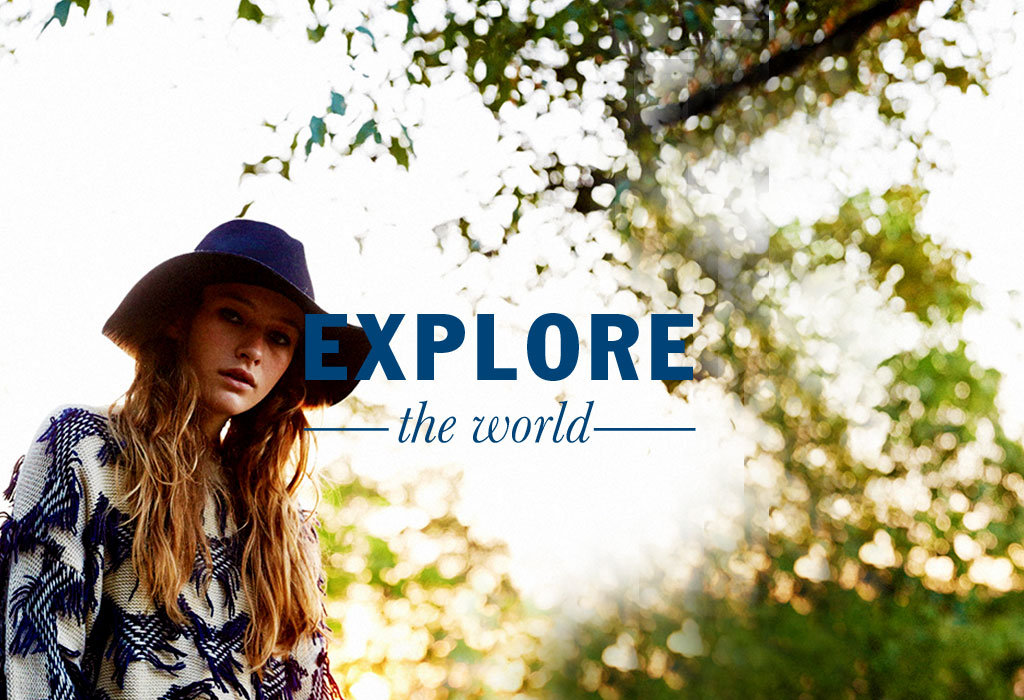
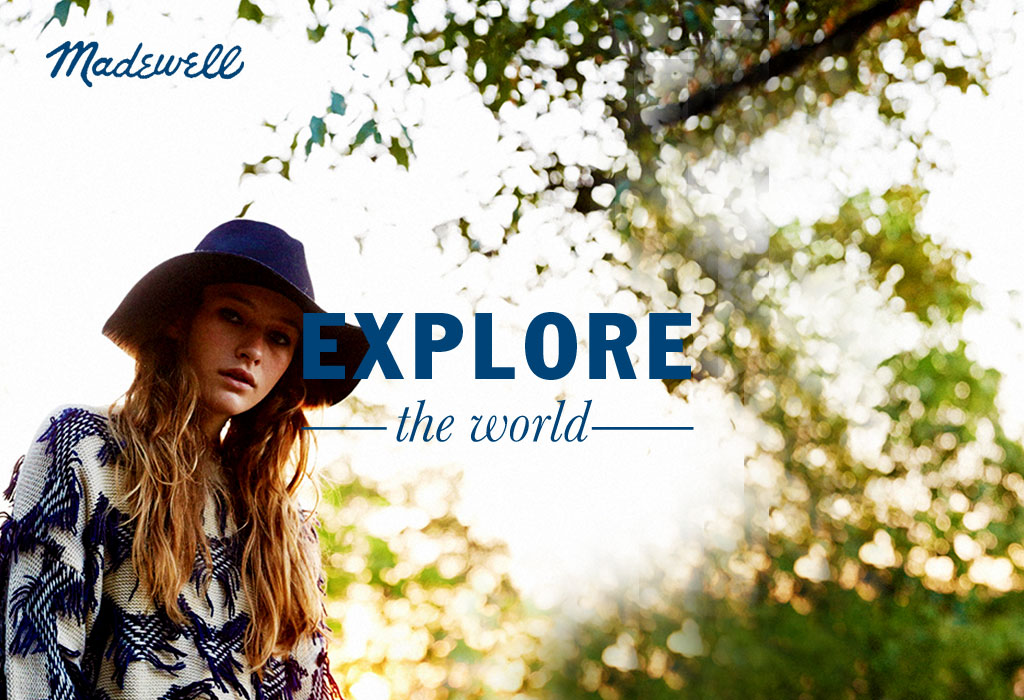
created two more pages for the close up and add to cart page

diff --git a/d2.html b/d2.html
@@ -1,0 +1,175 @@
+<html>
+<head>
+  <title>Madewell</title>
+   <meta http-equiv="content-type" content="text/html; charset=UTF-8">
+    <title>Making it swipeable - Swipeable Side Menu</title>
+    <script type="text/javascript" src="http://code.jquery.com/jquery-1.9.1.js"></script>
+    <script type="text/javascript" src="jquery.touchSwipe.min.js"></script>
+    <link href="stylesheet.css" type="text/css" rel="stylesheet"/>
+
+    <link href='http://fonts.googleapis.com/css?family=Libre+Baskerville' rel='stylesheet' type='text/css'>
+
+    
+     <script type="text/javascript">
+      $(window).load(function(){
+        $("[data-toggle]").click(function() {
+          var toggle_el = $(this).data("toggle");
+          $(toggle_el).toggleClass("open-sidebar");
+        });
+         $(".swipe-area").swipe({
+              swipeStatus:function(event, phase, direction, distance, duration, fingers)
+                  {
+                      if (phase=="move" && direction =="right") {
+                           $(".container").addClass("open-sidebar");
+                           return false;
+                      }
+                      if (phase=="move" && direction =="left") {
+                           $(".container").removeClass("open-sidebar");
+                           return false;
+                      }
+                  }
+          }); 
+      });
+
+
+var images = new Array('images/dresses/close-up/dress2/d2-front.jpg','images/dresses/close-up/dress2/d2-side.jpg', 'images/dresses/close-up/dress2/d2-back.jpg');
+var index = 1;
+
+function rotateImage()
+{
+  $('#d2-front').fadeOut('fast', function()
+  {
+    $(this).attr('src', images[index]);
+
+    $(this).fadeIn('fast', function()
+    {
+      if(index == images.length-1)
+      {
+        index = 0;
+      }
+      else
+      {
+        index++;
+      }
+    });
+  });
+}
+
+$(document).ready(function()
+{
+  setInterval(rotateImage, 4000);
+});
+
+
+
+      </script>
+
+
+      <style type="text/css">
+
+
+        .logo img{
+
+          width: 144px;
+          height: 34px;
+          padding-top:30px; 
+          padding-left: 420px;
+        }
+
+        .bg{
+          margin-top: 20px;
+          padding-top: 20px;
+        }
+
+        .info{
+          float:right;
+          position: relative;
+          margin-top: -400px;
+          margin-right:200px;
+          font-size: 15px;
+          line-height: 12px;
+
+          }
+
+          .add{
+           float:right;
+           position: relative;
+           margin-right:250px;
+           margin-top: -70px;
+
+          }
+
+          .size{
+           float:right;
+           position: relative;
+           margin-right: 360px;
+           margin-top: -125px;
+
+          }
+
+
+        }
+
+      </style>
+
+
+
+     </head>
+  <body>
+    <div class="container">
+      <div id="sidebar">
+          <ul>
+              <li><a href="index.html">Home</a></li>
+              <li><a href="dresses.html">Dresses</a></li>
+              <li><a href="shoes.html">Shoes</a></li>
+                  <li><a href="bags.html">Bags</a></li>
+          </ul>
+      </div>
+      <div class="main-content">
+          <div class="swipe-area"></div>
+          <a href="#" data-toggle=".container" id="sidebar-toggle">
+              <span class="bar"></span>
+              <span class="bar"></span>
+              <span class="bar"></span>
+          </a>
+          <div class="content">
+            
+              <div class="logo">
+                <img src="images/dresses/logo.png"/>
+              </div>
+
+              <div class="bg">
+                <img src="images/dresses/close-up/dress2/d2-front.jpg" id="d2-front"/>
+              </div>
+
+              <div class="info">
+                <p><b>Dockside T-Shirt Dress</b></p>
+                <p style="font-size: 13px;">item c4469</p>
+                <p style="font-size: 13px;">Price $120</p>
+                <p style="font-size: 13px;">Color: Deep Navy</p>
+                <p style="font-size: 13px;">Product Details:</p>
+                <p style="font-size: 13px;line-height:18px;">With its nautical-inspired stripes, pop-on shape and <br>cool on-seam pockets, this fuss-free mini dress is as <br>easy to wear as a T-shirt. Constructed of a special <br>textural Japanese piqué ponte, the stretchy style is <br>made to last.</p>  
+
+                <p style="font-size: 13px;line-height:18px;">Size:</p>
+
+              </div>
+
+              <div class="add">
+                <img src="images/dresses/close-up/dress2/add1.jpg"/>
+              </div>
+
+              <div class="size">
+
+                 <img src="images/dresses/close-up/dress2/small1.jpg"/>
+
+                 <img src="images/dresses/close-up/dress2/medium1.jpg"/>
+
+                 <img src="images/dresses/close-up/dress2/large1.jpg"/>
+              </div>
+
+
+          </div>
+      </div>
+    </div>
+  </body>
+</html>  

diff --git a/d3.html b/d3.html
@@ -1,0 +1,175 @@
+<html>
+<head>
+  <title>Madewell</title>
+   <meta http-equiv="content-type" content="text/html; charset=UTF-8">
+    <title>Making it swipeable - Swipeable Side Menu</title>
+    <script type="text/javascript" src="http://code.jquery.com/jquery-1.9.1.js"></script>
+    <script type="text/javascript" src="jquery.touchSwipe.min.js"></script>
+    <link href="stylesheet.css" type="text/css" rel="stylesheet"/>
+
+    <link href='http://fonts.googleapis.com/css?family=Libre+Baskerville' rel='stylesheet' type='text/css'>
+
+    
+     <script type="text/javascript">
+      $(window).load(function(){
+        $("[data-toggle]").click(function() {
+          var toggle_el = $(this).data("toggle");
+          $(toggle_el).toggleClass("open-sidebar");
+        });
+         $(".swipe-area").swipe({
+              swipeStatus:function(event, phase, direction, distance, duration, fingers)
+                  {
+                      if (phase=="move" && direction =="right") {
+                           $(".container").addClass("open-sidebar");
+                           return false;
+                      }
+                      if (phase=="move" && direction =="left") {
+                           $(".container").removeClass("open-sidebar");
+                           return false;
+                      }
+                  }
+          }); 
+      });
+
+
+var images = new Array('images/dresses/close-up/dress3/d3-front.jpg','images/dresses/close-up/dress3/d3-side.jpg', 'images/dresses/close-up/dress3/d3-back.jpg');
+var index = 1;
+
+function rotateImage()
+{
+  $('#d3-front').fadeOut('fast', function()
+  {
+    $(this).attr('src', images[index]);
+
+    $(this).fadeIn('fast', function()
+    {
+      if(index == images.length-1)
+      {
+        index = 0;
+      }
+      else
+      {
+        index++;
+      }
+    });
+  });
+}
+
+$(document).ready(function()
+{
+  setInterval(rotateImage, 4000);
+});
+
+
+
+      </script>
+
+
+      <style type="text/css">
+
+
+        .logo img{
+
+          width: 144px;
+          height: 34px;
+          padding-top:30px; 
+          padding-left: 420px;
+        }
+
+        .bg{
+          margin-top: 20px;
+          padding-top: 20px;
+        }
+
+        .info{
+          float:right;
+          position: relative;
+          margin-top: -400px;
+          margin-right:200px;
+          font-size: 15px;
+          line-height: 12px;
+
+          }
+
+          .add{
+           float:right;
+           position: relative;
+           margin-right:250px;
+           margin-top: -100px;
+
+          }
+
+          .size{
+           float:right;
+           position: relative;
+           margin-right: 360px;
+           margin-top: -155px;
+
+          }
+
+
+        }
+
+      </style>
+
+
+
+     </head>
+  <body>
+    <div class="container">
+      <div id="sidebar">
+          <ul>
+              <li><a href="index.html">Home</a></li>
+              <li><a href="dresses.html">Dresses</a></li>
+              <li><a href="shoes.html">Shoes</a></li>
+                  <li><a href="bags.html">Bags</a></li>
+          </ul>
+      </div>
+      <div class="main-content">
+          <div class="swipe-area"></div>
+          <a href="#" data-toggle=".container" id="sidebar-toggle">
+              <span class="bar"></span>
+              <span class="bar"></span>
+              <span class="bar"></span>
+          </a>
+          <div class="content">
+            
+              <div class="logo">
+                <img src="images/dresses/logo.png"/>
+              </div>
+
+              <div class="bg">
+                <img src="images/dresses/close-up/dress3/d3-front.jpg" id="d3-front"/>
+              </div>
+
+              <div class="info">
+                <p><b>Cutout Sundress</b></p>
+                <p style="font-size: 13px;">item c6360</p>
+                <p style="font-size: 13px;">Price $110</p>
+                <p style="font-size: 13px;">Color: Onyx</p>
+                <p style="font-size: 13px;">Product Details:</p>
+                <p style="font-size: 13px;line-height:18px;">This cross-front dress has a perfectly placed waist <br>cutout for a subtle flash of skin. Made of crisp cotton <br>poplin, it's a definite day or night deal.  </p>  
+
+                <p style="font-size: 13px;line-height:18px;">Size:</p>
+
+              </div>
+
+              <div class="add">
+                <img src="images/dresses/close-up/dress3/add.jpg"/>
+              </div>
+
+              <div class="size">
+
+                 <img src="images/dresses/close-up/dress3/small.jpg"/>
+
+                 <img src="images/dresses/close-up/dress3/medium.jpg"/>
+
+                 <img src="images/dresses/close-up/dress3/large.jpg"/>
+              </div>
+
+
+          </div>
+      </div>
+    </div>
+  </body>
+</html>  
